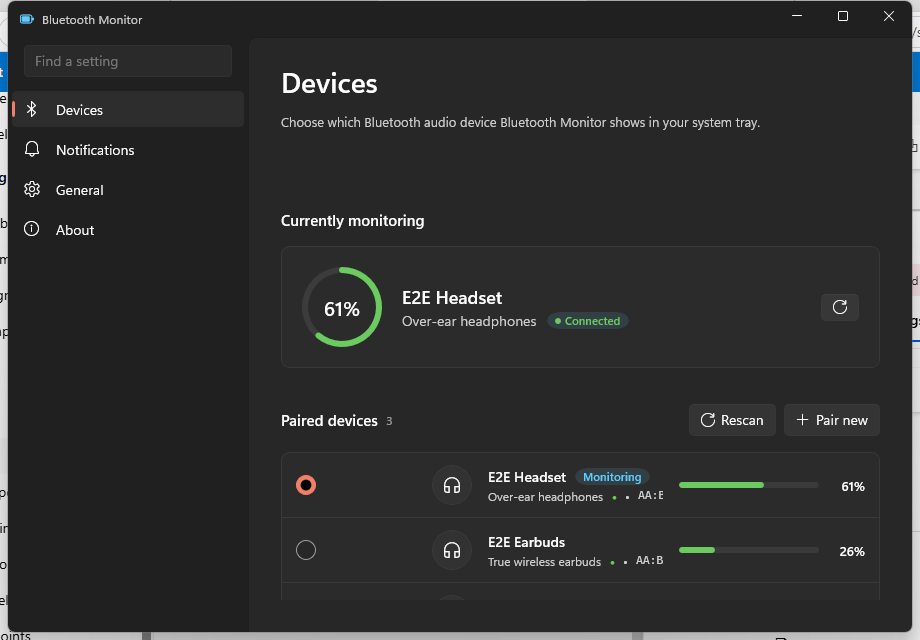
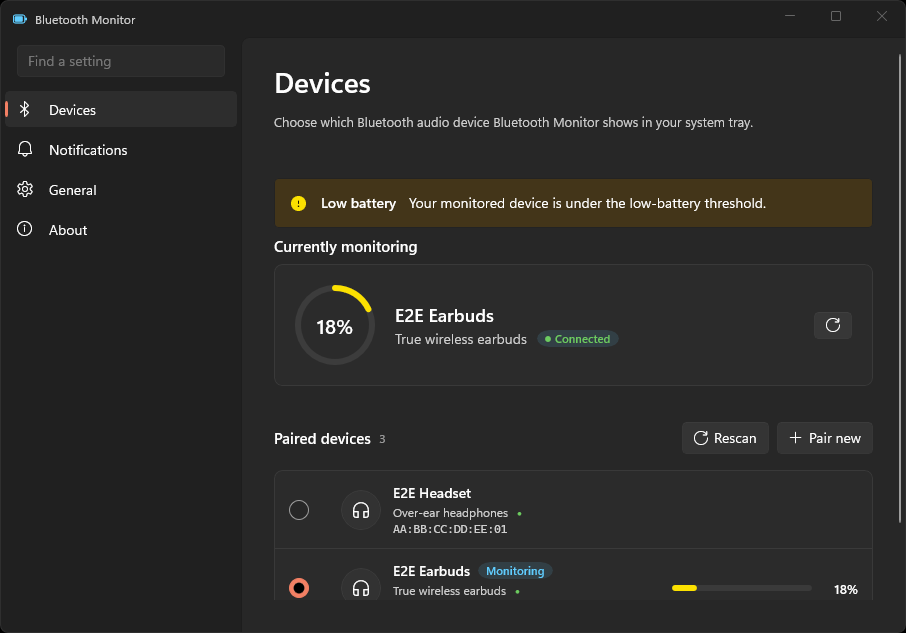
fix(ui): tighten devices page spacing

diff --git a/BluetoothMonitor.App/Views/DevicesPage.xaml b/BluetoothMonitor.App/Views/DevicesPage.xaml
@@ -59,7 +59,11 @@
                 AutomationProperties.AutomationId="LowBatteryInfoBar"
             />
 
-            <TextBlock x:Uid="CurrentlyMonitoring" Style="{StaticResource BluetoothMonitorSectionTitle}" />
+            <TextBlock
+                x:Uid="CurrentlyMonitoring"
+                Style="{StaticResource BluetoothMonitorSectionTitle}"
+                Margin="0"
+            />
             <controls:HeroCard
                 Device="{x:Bind ViewModel.SelectedDevice, Mode=OneWay}"
                 RefreshCommand="{x:Bind ViewModel.PollNowCommand}"
